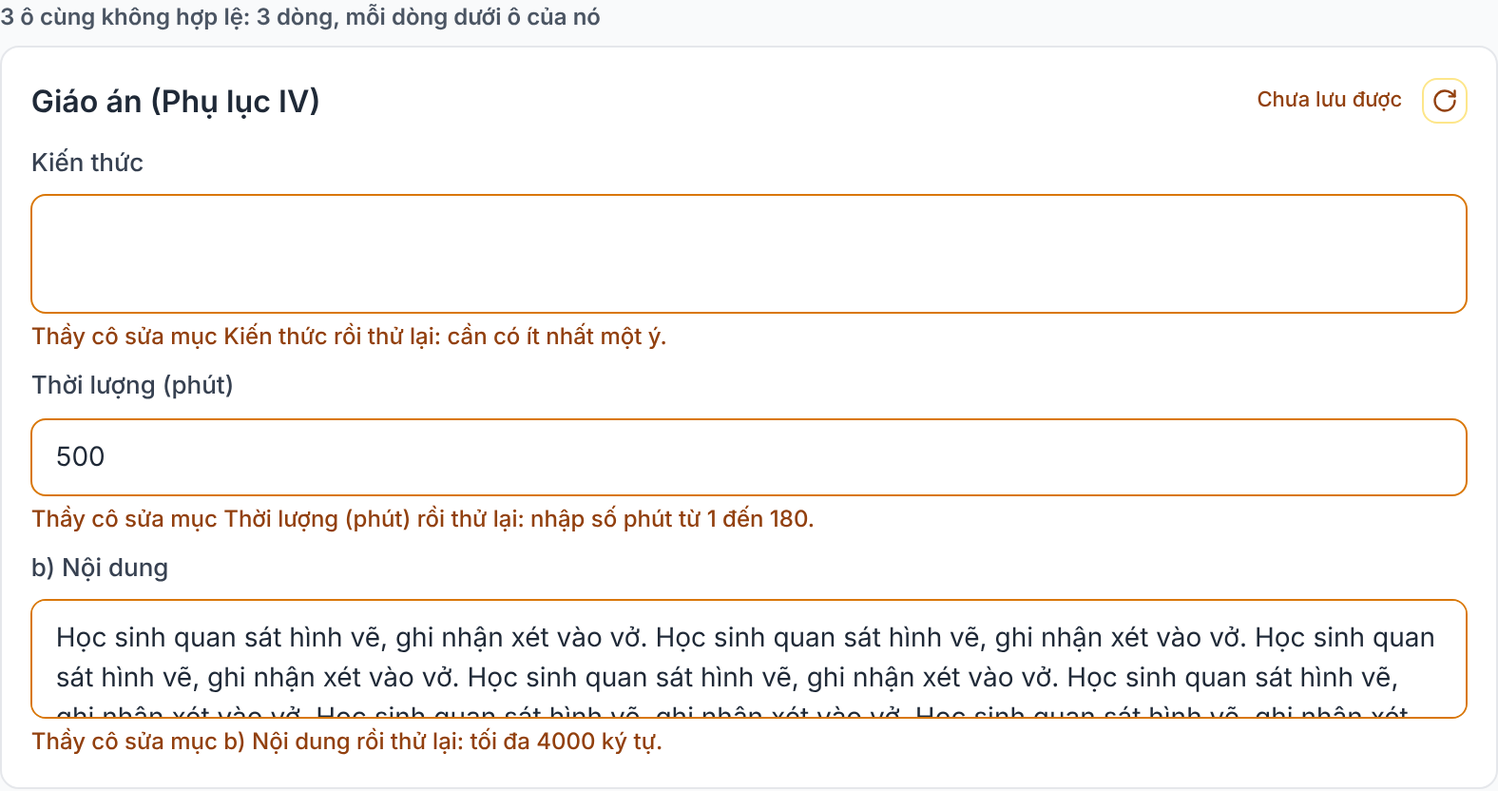
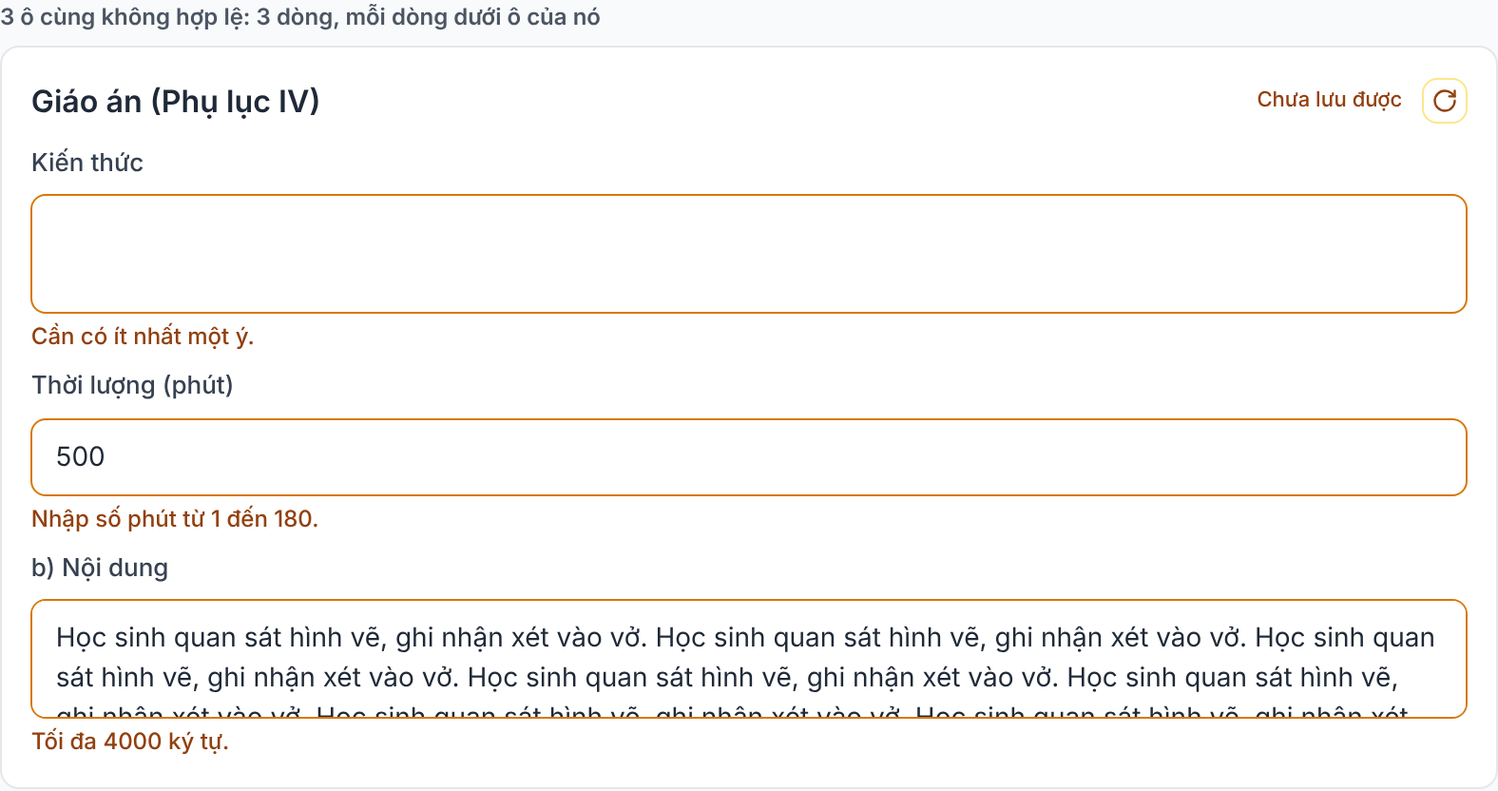
retry/new02: shorten copy (no opener, no field name), 2 short hints

Changed region(s): [[0.0311, 0.625, 0.5286, 0.6875], [0.0311, 0.9062, 0.4353, 0.9688], [0.0, 0.4062, 0.4353, 0.4375]]

diff --git a/retry/new02-qa-fixes/ac-test.js b/retry/new02-qa-fixes/ac-test.js
@@ -7,7 +7,8 @@ const BANNED = /lỗi|\bsai\b|máy chủ|\b400\b|\b422\b|\b409\b|validation|unde
 const b=await chromium.launch({executablePath:'/usr/bin/google-chrome',args:['--headless=new']});
 const res=[]; const ok=(n,c,d)=>res.push((c?'PASS ':'FAIL ')+n+(d?' · '+d:''));
 const RULES={'r-kn-empty':'Kiến thức','r-kn-many':'Kiến thức','r-aids-many':'Học liệu','r-content-empty':'b) Nội dung','r-content-long':'b) Nội dung','r-minutes':'Thời lượng (phút)','r-assign-empty':'Giao nhiệm vụ','r-subname-empty':'Tên hoạt động con','r-subname-long':'Tên hoạt động con','r-school-long':'Trường'};
-const EXPECT={'r-kn-empty':/cần có ít nhất một ý\.$/,'r-kn-many':/tối đa 12 ý\.$/,'r-aids-many':/tối đa 20 dòng\.$/,'r-content-empty':/cần có nội dung\.$/,'r-content-long':/tối đa 4000 ký tự\.$/,'r-minutes':/từ 1 đến 180\.$/,'r-assign-empty':/cần có nội dung\.$/,'r-subname-empty':/cần có tên\.$/,'r-subname-long':/tối đa 200 ký tự\.$/,'r-school-long':/tối đa 200 ký tự\.$/};
+const EXPECT={'r-kn-empty':'Cần có ít nhất một ý.','r-kn-many':'Tối đa 12 ý (ngăn bằng ; hoặc xuống dòng).','r-aids-many':'Tối đa 20 dòng.','r-content-empty':'Cần có nội dung.','r-content-long':'Tối đa 4000 ký tự.','r-minutes':'Nhập số phút từ 1 đến 180.','r-assign-empty':'Cần có nội dung.','r-subname-empty':'Cần có tên.','r-subname-long':'Tối đa 200 ký tự.','r-school-long':'Tối đa 200 ký tự.'};
+const HINT_NET='Chưa lưu được nên chưa chạy. Bấm biểu tượng thử lại ở đầu giáo án.', HINT_DATA='Chưa lưu được nên chưa chạy. Sửa các ô được đánh dấu.';
 for (const w of [1280,720,390]){
  const T=`[${w}] `;
  const ctx=await b.newContext({viewport:{width:w,height:800},hasTouch:w<720});
@@ -60,33 +61,35 @@ for (const w of [1280,720,390]){
 
  // ================= M2 static per rule =================
  const geoOf=async id=>pg.evaluate(id=>{const c=document.getElementById(id).querySelector('.card'),cr=c.getBoundingClientRect(),h=c.querySelector('.hd').getBoundingClientRect(),t=c.querySelector('.card-title').getBoundingClientRect(),l=c.querySelector('.save-label').getBoundingClientRect(),a=c.querySelector('.save-retry').getBoundingClientRect();return [h.height,h.top-cr.top,t.left-cr.left,l.left-cr.left,cr.right-l.right,a.width,a.height].map(v=>+v.toFixed(2)).join(',')},id);
- const g0=await geoOf('r-kn-empty'); let allSame=true, allIn=true, allLines=true, allAria=true, allCopy=true, allBanned=true, allLabel=true, allExpect=true; const info=[];
+ const g0=await geoOf('r-kn-empty'); let one=0, allSame=true, allIn=true, allLines=true, allAria=true, allCopy=true, allBanned=true, allLabel=true, allExpect=true; const info=[];
  for(const id of Object.keys(RULES)){
   await pg.evaluate(id=>document.getElementById(id).scrollIntoView({block:'center'}),id);
-  const r=await pg.evaluate(id=>{const c=document.getElementById(id).querySelector('.card');const f=c.querySelector('.fld'),p=f.querySelector('.field-fail'),i=f.querySelector('.inp'),lb=f.querySelector('label'),pr=p.getBoundingClientRect();const lh=parseFloat(getComputedStyle(p).lineHeight);return {txt:p.textContent,left:pr.left,right:pr.right,top:pr.top,bottom:pr.bottom,iw:innerWidth,ih:innerHeight,lines:Math.round(pr.height/lh),inv:i.getAttribute('aria-invalid'),desc:i.getAttribute('aria-describedby'),pid:p.id,live:p.getAttribute('aria-live'),label:c.querySelector('.save-label').textContent,icon:!!c.querySelector('.save-retry'),under:pr.top>=i.getBoundingClientRect().bottom-0.5&&pr.top-i.getBoundingClientRect().bottom<=6,bc:getComputedStyle(i).borderTopColor,fldLabel:lb.textContent,hasOtherLines:c.querySelectorAll('.field-fail:not(:empty)').length,wrapped:pr.width}},id);
+  const r=await pg.evaluate(id=>{const c=document.getElementById(id).querySelector('.card');const f=c.querySelector('.fld'),p=f.querySelector('.field-fail'),i=f.querySelector('.inp'),lb=f.querySelector('label'),pr=p.getBoundingClientRect();const lh=parseFloat(getComputedStyle(p).lineHeight);return {txt:p.textContent,left:pr.left,right:pr.right,top:pr.top,bottom:pr.bottom,iw:innerWidth,ih:innerHeight,lines:Math.round(pr.height/lh),inv:i.getAttribute('aria-invalid'),desc:i.getAttribute('aria-describedby'),pid:p.id,live:p.getAttribute('aria-live'),label:c.querySelector('.save-label').textContent,icon:!!c.querySelector('.save-retry'),under:pr.top>=i.getBoundingClientRect().bottom-0.5&&pr.top-i.getBoundingClientRect().bottom<=6,bc:getComputedStyle(i).borderTopColor,fldLabel:lb.textContent,hasOtherLines:c.querySelectorAll('.field-fail:not(:empty)').length,hasLabel:!!document.querySelector('label[for="'+i.id+'"]')&&lb.textContent.length>0,wrapped:pr.width}},id);
   const nm=RULES[id].replace(/ \(mỗi dòng một mục\)/,'');
   allSame = allSame && (await geoOf(id))===g0;
   allIn = allIn && r.left>=0 && r.right<=r.iw && r.top>=0 && r.bottom<=r.ih;
   allLines = allLines && r.lines>=1 && r.lines<=2;
   allAria = allAria && r.inv==='true' && r.desc===r.pid && r.live==='polite' && r.under && r.bc==='rgb(217, 119, 6)';
-  allCopy = allCopy && r.txt.startsWith('Thầy cô sửa mục '+nm+' rồi thử lại: ');
-  allExpect = allExpect && EXPECT[id].test(r.txt);
+  allCopy = allCopy && !/Thầy cô|sửa mục|rồi thử lại|giúp nhé/.test(r.txt) && r.txt.indexOf(nm)<0 && /^[A-ZÀ-Ỹ]/.test(r.txt) && r.txt.length<=60 && r.hasLabel;
+  allExpect = allExpect && r.txt===EXPECT[id]; if(r.txt!==EXPECT[id]) info.push('MISMATCH '+id+': '+r.txt); if(r.lines===1) one++;
   allBanned = allBanned && !BANNED.test(r.txt);
   allLabel = allLabel && r.label==='Chưa lưu được' && r.icon;
   info.push(`${id}:${r.lines}l`);
  }
  ok(T+'M2 each of 10 rules: error line fully inside the viewport', allIn);
  ok(T+'M2 each rule: line is 1-2 lines', allLines, info.join(' '));
- ok(T+'M2 each rule: copy = "Thầy cô sửa mục <tên mục> rồi thử lại: <lý do>"', allCopy);
- ok(T+'M2 each rule: reason text has the real limit (ít nhất một / 12 / 20 / 4000 / 1 đến 180 / 200)', allExpect);
+ ok(T+'M2 each rule: SHORT copy (Huy 2026-10-01): capitalised, no opener, no field name, <=60 chars; the field keeps its own <label for> that is read before the line', allCopy);
+ ok(T+'M2 each rule: reason text is EXACTLY the final short sentence (real limits 12 / 20 / 4000 / 1-180 / 200)', allExpect);
+ ok(T+'M2 short lines: 1 line for the large majority (>=9 of 10), none over 2'+(w===390?' (390)':''), one>=9, `one-line=${one}/10`);
  ok(T+'M2 each rule: no banned word (lỗi, sai, máy chủ, 400, validation, undefined...)', allBanned);
  ok(T+'M2 each rule: aria-invalid=true, aria-describedby -> line id, line aria-live=polite, directly under field, amber border #D97706', allAria);
  ok(T+'M2 each rule: status label stays "Chưa lưu được" and the approved icon is present', allLabel);
  ok(T+'M2 status row geometry (height, title x, label x/right edge, icon 24x24) identical across all 10 rules', allSame, g0);
  const ic=await pg.evaluate(()=>{const b=document.querySelector('#icon-1 .save-retry'),cs=getComputedStyle(b);return {w:b.offsetWidth,h:b.offsetHeight,color:cs.color,border:cs.borderTopColor,radius:cs.borderTopLeftRadius,aria:b.getAttribute('aria-label'),svg:b.querySelector('svg').getBoundingClientRect().width,tip:document.querySelector('#icon-1 .save-tip').textContent}});
  ok(T+'approved icon untouched: 24x24, #92400E, border #FDE68A, radius 8, 14px glyph, aria-label & tooltip "Thử lại"', ic.w===24&&ic.h===24&&ic.color==='rgb(146, 64, 14)'&&ic.border==='rgb(253, 230, 138)'&&ic.radius==='8px'&&ic.svg===14&&ic.aria==='Thử lại'&&ic.tip==='Thử lại', JSON.stringify(ic));
- ok(T+'approved blocked-action hint (static) is the exact approved text', await pg.evaluate(()=>document.querySelector('#hint-approved .act-fail').textContent==='Chưa lưu được nên thao tác này chưa chạy. Thầy cô bấm biểu tượng thử lại ở đầu giáo án giúp nhé.'));
- ok(T+'CR-2 hint variant has no banned word and starts with the approved first sentence', await pg.evaluate(()=>{const t=document.querySelector('#hint-data').textContent;return t.startsWith('Chưa lưu được nên thao tác này chưa chạy. ')&&!/lỗi|\bsai\b|máy chủ/i.test(t)}));
+ ok(T+'AC-A static hint, network/unknown field: exact short sentence', await pg.evaluate((h)=>document.querySelector('#hint-net-p').textContent===h,HINT_NET));
+ ok(T+'AC-G static hint, data error with marked fields: exact short sentence', await pg.evaluate((h)=>document.querySelector('#hint-data-p').textContent===h,HINT_DATA));
+ ok(T+'both hints: <=2 lines, inside viewport, no banned word', await pg.evaluate(()=>['#hint-net-p','#hint-data-p'].every(s=>{const e=document.querySelector(s),r=e.getBoundingClientRect();return Math.round(r.height/parseFloat(getComputedStyle(e).lineHeight))<=2&&r.left>=0&&r.right<=innerWidth&&!/lỗi|\bsai\b|máy chủ|\b400\b|validation|undefined/i.test(e.textContent)})));
  // multi
  const mu=await pg.evaluate(()=>{const c=document.querySelector('#multi .card');const ls=[...c.querySelectorAll('.field-fail:not(:empty)')];return {n:ls.length,inv:c.querySelectorAll('[aria-invalid=true]').length,ids:new Set(ls.map(x=>x.id)).size,vis:ls.every(l=>{const r=l.getBoundingClientRect();return r.left>=0&&r.right<=innerWidth})}});
  ok(T+'M2 multi: 3 invalid fields -> 3 lines + 3 aria-invalid, each in viewport horizontally', mu.n===3&&mu.inv===3&&mu.ids===3&&mu.vis, JSON.stringify(mu));
@@ -127,7 +130,8 @@ for (const w of [1280,720,390]){
  ok(T+'live: Kiến thức emptied -> label "Chưa lưu được" + icon, 1 line, ZERO new PUT', (await lab())==='Chưa lưu được'&&(await icon())&&(await nlines())===1&&(await puts())===1);
  ok(T+'live: focus NOT stolen (still in Kiến thức) when the reason line appears', await lp.evaluate(()=>document.activeElement.closest('.fld')?.dataset.key==='knowledge'));
  const lineTxt=await lp.evaluate(()=>document.querySelector('#live .fld[data-key=knowledge] .field-fail').textContent);
- ok(T+'live: line text = approved pattern, Kiến thức', lineTxt==='Thầy cô sửa mục Kiến thức rồi thử lại: cần có ít nhất một ý.', lineTxt);
+ ok(T+'live: line text = "Cần có ít nhất một ý."', lineTxt==='Cần có ít nhất một ý.', lineTxt);
+ ok(T+'live: field has its own label read before the line (label[for] + aria-describedby, no aria-label override needed)', await lp.evaluate(()=>{const i=document.querySelector('#live .fld[data-key=knowledge] .inp');return document.querySelector('label[for="'+i.id+'"]').textContent==='Kiến thức'&&i.getAttribute('aria-describedby')&&!i.hasAttribute('aria-label')}));
  const va=await lp.evaluate(()=>{const i=document.querySelector('#live .fld[data-key=knowledge] .inp'),p=i.closest('.fld').querySelector('.field-fail');return i.getAttribute('aria-invalid')==='true'&&i.getAttribute('aria-describedby')===p.id&&p.getAttribute('aria-live')==='polite'});
  ok(T+'live: aria-invalid + aria-describedby + polite on the live line', va);
  ok(T+'live: status row geometry identical to "Đã lưu" state (no shift of the row)', (await hdG())===hd0, hd0);
@@ -142,10 +146,11 @@ for (const w of [1280,720,390]){
  ok(T+'live: focus stays in the field being typed (no focus steal)', await lp.evaluate(()=>document.activeElement.closest('.fld')?.dataset.key==='content'));
  // click Xuất while data error: approved hint text, unchanged
  await lp.click(live('[data-act=export]')); 
- ok(T+'live: Xuất Word during data error -> the APPROVED blocked-action hint (CR-2 off)', await lp.evaluate(()=>document.getElementById('live-hint').textContent==='Chưa lưu được nên thao tác này chưa chạy. Thầy cô bấm biểu tượng thử lại ở đầu giáo án giúp nhé.'));
- await lp.evaluate(()=>{document.getElementById('cr2').checked=true}); await lp.click(live('[data-act=revise]'));
- ok(T+'live: CR-2 on -> variant text (no banned word)', await lp.evaluate(()=>{const t=document.getElementById('live-hint').textContent;return t.includes('sửa mục được nhắc')&&!/lỗi|\bsai\b|máy chủ/i.test(t)}));
- await lp.evaluate(()=>{document.getElementById('cr2').checked=false});
+ await lp.click(live('[data-act=export]'));
+ ok(T+'live: AC-G Xuất Word during DATA error -> "Chưa lưu được nên chưa chạy. Sửa các ô được đánh dấu."', await lp.evaluate(h=>document.getElementById('live-hint').textContent===h,HINT_DATA));
+ ok(T+'live: AC-G hint <=2 lines and inside the viewport', await lp.evaluate(()=>{const e=document.getElementById('live-hint'),r=e.getBoundingClientRect();return Math.round(r.height/parseFloat(getComputedStyle(e).lineHeight))<=2&&r.left>=0&&r.right<=innerWidth}));
+ await lp.click(live('[data-act=revise]'));
+ ok(T+'live: AC-G Soạn lại during DATA error -> same data sentence', await lp.evaluate(h=>document.getElementById('live-hint').textContent===h,HINT_DATA));
  // click retry icon with data error: no PUT, no "Đang lưu", focus to the first invalid field
  await lp.click(live('.save-retry')); await lp.waitForTimeout(900);
  ok(T+'live: icon click on data error -> no PUT, label stays "Chưa lưu được" (never flashes "Đang lưu"), icon still there', (await puts())===1&&(await lab())==='Chưa lưu được'&&(await icon()));
@@ -172,6 +177,18 @@ for (const w of [1280,720,390]){
  await lp.waitForTimeout(900); ok(T+'live: NETWORK retry fails again -> icon back', (await lab())==='Chưa lưu được'&&(await icon()));
  await lp.evaluate(()=>{document.getElementById('fail').checked=false}); await lp.click(live('.save-retry')); await lp.waitForTimeout(1000);
  ok(T+'live: NETWORK retry succeeds -> "Đã lưu", icon gone, focus back to the last edited field', (await lab())==='Đã lưu'&&!(await icon())&&await lp.evaluate(()=>document.activeElement.closest('.fld')?.dataset.key==='school'));
+ // AC-A: hint on NETWORK error (network still down from earlier step? set explicitly)
+ await lp.evaluate(()=>{document.getElementById('fail').checked=true;document.getElementById('rej').checked=false});
+ await lp.click(fld('school')); await lp.keyboard.type('n'); await lp.waitForTimeout(1500);
+ await lp.click(live('[data-act=export]'));
+ ok(T+'live: AC-A Xuất Word during NETWORK error -> "Chưa lưu được nên chưa chạy. Bấm biểu tượng thử lại ở đầu giáo án."', (await lab())==='Chưa lưu được'&&await lp.evaluate(h=>document.getElementById('live-hint').textContent===h,HINT_NET));
+ await lp.evaluate(()=>{document.getElementById('fail').checked=false}); await lp.click(live('.save-retry')); await lp.waitForTimeout(1000);
+ ok(T+'live: hint disappears after a successful save', await lp.evaluate(()=>document.getElementById('live-hint').textContent===''));
+ // minutes are NOT silently changed to 1 (L1)
+ await lp.fill(fld('minutes'),''); await lp.waitForTimeout(1300);
+ ok(T+'live: L1 minutes emptied stays EMPTY (not snapped to 1) and shows "Nhập số phút từ 1 đến 180."', (await lp.inputValue(fld('minutes')))===''&&await lp.evaluate(()=>document.querySelector('#live .fld[data-key=minutes] .field-fail').textContent==='Nhập số phút từ 1 đến 180.'));
+ await lp.fill(fld('minutes'),'0'); ok(T+'live: minutes 0 stays 0 with the line', (await lp.inputValue(fld('minutes')))==='0'&&(await nlines())===1);
+ await lp.fill(fld('minutes'),'10'); await lp.waitForTimeout(1300);
  // data error, field unknown: label + icon only, approved retry flow, no invented line
  await lp.evaluate(()=>{document.getElementById('fail').checked=false;document.getElementById('rej').checked=true});
  const pu=await puts(); await lp.click(fld('school')); await lp.keyboard.type('y'); await lp.waitForTimeout(1500);
@@ -184,7 +201,7 @@ for (const w of [1280,720,390]){
  // data error then network error at once: data wins for the line, no PUT
  await lp.evaluate(()=>{document.getElementById('fail').checked=true}); await lp.click('#h-sub'); await lp.waitForTimeout(1300);
  const ps=await puts();
- ok(T+'live: sub-activity name emptied -> its own line, 0 PUT even though network is also down', (await nlines())===1&&await lp.evaluate(()=>document.querySelector('#live .fld[data-key=subname] .field-fail').textContent==='Thầy cô sửa mục Tên hoạt động con rồi thử lại: cần có tên.'));
+ ok(T+'live: sub-activity name emptied -> its own line, 0 PUT even though network is also down', (await nlines())===1&&await lp.evaluate(()=>document.querySelector('#live .fld[data-key=subname] .field-fail').textContent==='Cần có tên.'));
  await lp.click(fld('subname')); await lp.keyboard.type('Tên con'); await lp.waitForTimeout(40);
  ok(T+'live: typing in the sub-activity name clears its line instantly', (await nlines())===0);
  await lp.waitForTimeout(1500);

diff --git a/retry/new02-qa-fixes/index.html b/retry/new02-qa-fixes/index.html
@@ -135,17 +135,19 @@ var ICON='<svg viewBox="0 0 24 24" fill="none" stroke="currentColor" stroke-widt
 var LOOK='<svg width="13" height="13" viewBox="0 0 24 24" fill="none" stroke="currentColor" stroke-width="2" stroke-linecap="round" stroke-linejoin="round" aria-hidden="true"><circle cx="11" cy="11" r="7"/><path d="m20 20-3.5-3.5"/><path d="M11 8v3.2"/><path d="M11 14h.01"/></svg>';
 var CHK='<svg width="12" height="12" viewBox="0 0 24 24" fill="none" stroke="currentColor" stroke-width="2.5" stroke-linecap="round" stroke-linejoin="round" aria-hidden="true"><path d="M5 12.5l4.5 4.5L19 7.5"/></svg>';
 var TEXT={saved:'Đã lưu',saving:'Đang lưu',error:'Chưa lưu được'};
-var BLOCKED='Chưa lưu được nên thao tác này chưa chạy. Thầy cô bấm biểu tượng thử lại ở đầu giáo án giúp nhé.';          /* APPROVED, = SAVE_ACTION_BLOCKED on main */
-var BLOCKED_DATA='Chưa lưu được nên thao tác này chưa chạy. Thầy cô sửa mục được nhắc rồi bấm biểu tượng thử lại giúp nhé.'; /* CHANGE REQUEST CR-2 (optional) */
+/* Huy 2026-10-01: rút gọn. Thay SAVE_ACTION_BLOCKED (save-status.ts) bằng 2 câu theo loại lỗi */
+var BLOCKED='Chưa lưu được nên chưa chạy. Bấm biểu tượng thử lại ở đầu giáo án.';   /* lỗi mạng / 5xx / 409 / không biết ô nào */
+var BLOCKED_DATA='Chưa lưu được nên chưa chạy. Sửa các ô được đánh dấu.';            /* lỗi dữ liệu có ô được đánh dấu */
 
 /* ============ M2 rules. Limits = packages/shared/src/save-plan.ts (TEXT_MAX 4000, SHORT_TEXT_MAX 200, LIST_MAX 12, AIDS_MAX 20, minutes 1..180) ============ */
 function parseList(raw,sep){ return raw.split(sep==='nl'?/\n/:/[;\n]/).map(function(x){return x.trim()}).filter(Boolean); }
 /* each field def: k key, label (as shown), type, check(value)->reason|'' (reason = text after the colon) */
-function chk_list(sep,max,unit){ return function(v){ var a=parseList(v,sep); if(!a.length) return 'cần có ít nhất một '+unit+'.'; if(a.some(function(x){return x.length>4000})) return 'mỗi '+unit+' tối đa 4000 ký tự.'; if(a.length>max) return 'tối đa '+max+' '+unit+'.'; return ''; }; }
-function chk_text(max,emptyMsg){ return function(v){ var t=v.trim(); if(!t) return emptyMsg||'cần có nội dung.'; if(t.length>max) return 'tối đa '+max+' ký tự.'; return ''; }; }
-function chk_opt(max){ return function(v){ return v.trim().length>max?'tối đa '+max+' ký tự.':''; }; }
-function chk_min(v){ var n=Number(v); return (v===''||!isFinite(n)||Math.floor(n)!==n||n<1||n>180)?'nhập số phút từ 1 đến 180.':''; }
-function msg(label,reason){ return 'Thầy cô sửa mục '+label+' rồi thử lại: '+reason; }
+function chk_list(sep,max,unit){ return function(v){ var a=parseList(v,sep); if(!a.length) return 'Cần có ít nhất một '+unit+'.'; if(a.some(function(x){return x.length>4000})) return 'Mỗi '+unit+' tối đa 4000 ký tự.'; if(a.length>max) return 'Tối đa '+max+' '+unit+(sep===';'?' (ngăn bằng ; hoặc xuống dòng).':'.'); return ''; }; }
+function chk_text(max,emptyMsg){ return function(v){ var t=v.trim(); if(!t) return emptyMsg||'Cần có nội dung.'; if(t.length>max) return 'Tối đa '+max+' ký tự.'; return ''; }; }
+function chk_opt(max){ return function(v){ return v.trim().length>max?'Tối đa '+max+' ký tự.':''; }; }
+function chk_min(v){ var n=Number(v); return (v===''||!isFinite(n)||Math.floor(n)!==n||n<1||n>180)?'Nhập số phút từ 1 đến 180.':''; }
+/* Huy 2026-10-01: dòng chỉ nêu trọng tâm, không lời mở, không tên mục (dòng nằm ngay dưới ô, ô có nhãn + aria-describedby) */
+function msg(label,reason){ return reason; }
 var DEFS={
  knowledge:{label:'Kiến thức',type:'textarea',check:chk_list(';',12,'ý')},
  aids:{label:'Học liệu (mỗi dòng một mục)',short:'Học liệu',type:'textarea',check:chk_list('nl',20,'dòng')},
@@ -153,7 +155,7 @@ var DEFS={
  minutes:{label:'Thời lượng (phút)',short:'Thời lượng (phút)',type:'number',check:chk_min},
  content:{label:'b) Nội dung',type:'textarea',check:chk_text(4000)},
  assign:{label:'Giao nhiệm vụ',type:'textarea',check:chk_text(4000)},
- subname:{label:'Tên hoạt động con',type:'input',check:chk_text(200,'cần có tên.')}
+ subname:{label:'Tên hoạt động con',type:'input',check:chk_text(200,'Cần có tên.')}
 };
 function why(def,v){ var r=def.check(v); return r?msg(def.short||def.label,r):''; }
 var LONG=(function(){var s='';while(s.length<4001)s+='Học sinh quan sát hình vẽ, ghi nhận xét vào vở. ';return s.slice(0,4001)})();
@@ -281,10 +283,10 @@ board.appendChild(section('Biểu tượng "Thử lại" khi lỗi dữ liệu',
   board.appendChild(block('icon-1','a · Có lỗi dữ liệu: nhãn + biểu tượng y như lỗi mạng, kèm dòng dưới ô (rê chuột/focus: tooltip "Thử lại")',c,{icon:'1'}));
   var c2=mini('error'); var w2=fieldNode('knowledge',''); c2.appendChild(w2); setBad(w2,why(DEFS.knowledge,''),true);
   board.appendChild(block('icon-2','b · Sau khi bấm biểu tượng: không "Đang lưu" giả, focus nằm ở ô cần sửa (con trỏ nhấp nháy), dòng lý do được đọc lại',c2,{icon:'2'}));
-  var c3=mini('error'); c3.insertAdjacentHTML('beforeend','<div class="acts"><button type="button" class="btn btn-secondary">Soạn lại giáo án</button><button type="button" class="btn btn-outline">Tạo phiếu bài tập</button><button type="button" class="btn btn-default">Xuất Word</button><p class="act-fail" id="hint-appr">'+BLOCKED+'</p></div>');
-  board.appendChild(block('hint-approved','c · Dòng bên dưới Xuất/Soạn lại/Tạo phiếu: GIỮ NGUYÊN câu đã duyệt (vẫn đúng khi lỗi dữ liệu)',c3,{hint:'approved'}));
-  var c4=mini('error'); c4.insertAdjacentHTML('beforeend','<div class="acts"><button type="button" class="btn btn-secondary">Soạn lại giáo án</button><button type="button" class="btn btn-outline">Tạo phiếu bài tập</button><button type="button" class="btn btn-default">Xuất Word</button><p class="act-fail" id="hint-data">'+BLOCKED_DATA+'</p></div>');
-  board.appendChild(block('hint-data-var','d · CR-2 (tùy chọn, CẦN DUYỆT): biến thể khi lỗi là dữ liệu. Chỉ thêm "sửa mục được nhắc"',c4,{hint:'data'}));
+  var c3=mini('error'); c3.insertAdjacentHTML('beforeend','<div class="acts"><button type="button" class="btn btn-secondary">Soạn lại giáo án</button><button type="button" class="btn btn-outline">Tạo phiếu bài tập</button><button type="button" class="btn btn-default">Xuất Word</button><p class="act-fail" id="hint-net-p">'+BLOCKED+'</p></div>');
+  board.appendChild(block('hint-net','c · Dòng dưới Xuất/Soạn lại/Tạo phiếu, LỖI MẠNG (và lỗi dữ liệu không biết ô nào): câu ngắn mới',c3,{hint:'net'}));
+  var c4=mini('error'); c4.insertAdjacentHTML('beforeend','<div class="acts"><button type="button" class="btn btn-secondary">Soạn lại giáo án</button><button type="button" class="btn btn-outline">Tạo phiếu bài tập</button><button type="button" class="btn btn-default">Xuất Word</button><p class="act-fail" id="hint-data-p">'+BLOCKED_DATA+'</p></div>');
+  board.appendChild(block('hint-data','d · Cùng dòng, LỖI DỮ LIỆU có ô được đánh dấu: câu ngắn mới',c4,{hint:'data'}));
 })();
 
 /* ============ network vs data ============ */
@@ -295,9 +297,9 @@ board.appendChild(section('Lỗi mạng và lỗi dữ liệu: khác nhau ở đ
   '<tr><th>Nhãn đầu giáo án</th><td>"Chưa lưu được"</td><td>"Chưa lưu được" (y hệt)</td></tr>'+
   '<tr><th>Biểu tượng</th><td>Có, kiểu đã duyệt</td><td>Có, y hệt (không đổi màu, không vô hiệu)</td></tr>'+
   '<tr><th>Bấm biểu tượng</th><td>"Đang lưu" ít nhất 600 ms, gửi lại; xong thì focus về ô đang sửa, lỗi lại thì focus về biểu tượng</td><td>Không gửi gì, không "Đang lưu"; focus chuyển đến ô đầu tiên có dòng lý do (CR-3)</td></tr>'+
-  '<tr><th>Dòng dưới ô</th><td>Không có</td><td>Có, ngay dưới từng ô cần sửa: "Thầy cô sửa mục … rồi thử lại: …"</td></tr>'+
+  '<tr><th>Dòng dưới ô</th><td>Không có</td><td>Có, ngay dưới từng ô cần sửa, chỉ nêu trọng tâm: "Cần có ít nhất một ý."</td></tr>'+
   '<tr><th>Viền ô</th><td>Không đổi</td><td>Viền cam #D97706 (mới); khi đang gõ vào ô thì viền xanh như mọi ô</td></tr>'+
-  '<tr><th>Dòng dưới Xuất / Soạn lại / Tạo phiếu</th><td>Câu đã duyệt, giữ nguyên</td><td>Giữ câu đã duyệt (vẫn đúng). Tùy chọn CR-2: "…sửa mục được nhắc rồi bấm biểu tượng thử lại giúp nhé."</td></tr>'+
+  '<tr><th>Dòng dưới Xuất / Soạn lại / Tạo phiếu</th><td>"Chưa lưu được nên chưa chạy. Bấm biểu tượng thử lại ở đầu giáo án."</td><td>"Chưa lưu được nên chưa chạy. Sửa các ô được đánh dấu."</td></tr>'+
   '<tr><th>Tự thử lại</th><td>Có: mỗi lần sửa tiếp (sau 1 giây) hoặc bấm biểu tượng</td><td>Có: ngay khi ô cuối cùng hợp lệ, giáo án tự lưu sau 1 giây, không cần bấm</td></tr>'+
   '<tr><th>Khi nào hết</th><td>Lưu thành công thì "Đã lưu", biểu tượng mất</td><td>Dòng của ô nào mất ngay khi ô đó hợp lệ; nhãn về "Đã lưu" khi tự lưu xong</td></tr>'+
   '<tr><th>Lỗi dữ liệu nhưng không biết ô nào</th><td>(không áp dụng)</td><td>Chỉ nhãn "Chưa lưu được" + biểu tượng; không có dòng, không viền cam; bấm biểu tượng chạy luồng đã duyệt (Đang lưu, gửi lại)</td></tr>'+
@@ -318,7 +320,7 @@ if(/[?&]live=1/.test(location.search)){
   board.appendChild(section('Bấm thử (?live=1)','Mô phỏng: không có máy chủ thật. Tự lưu sau 800 ms (thật là 1 giây). PUT chỉ được đếm khi nội dung hợp lệ.','sec-live'));
   var d=document.createElement('div'); d.className='demo'; d.id='livebox';
   d.innerHTML='<p class="cap" data-mock><b>Demo bấm thử</b> (không thuộc giao diện)</p><div id="live"></div>'+
-   '<p data-mock><label><input type="checkbox" id="fail"> Mạng đang lỗi</label><label><input type="checkbox" id="rej"> Máy từ chối nội dung nhưng không chỉ ô nào</label><label><input type="checkbox" id="cr2"> Bật CR-2 (câu dưới nút khi lỗi dữ liệu)</label> <span id="cnt">PUT: 0</span></p>'+
+   '<p data-mock><label><input type="checkbox" id="fail"> Mạng đang lỗi</label><label><input type="checkbox" id="rej"> Máy từ chối nội dung nhưng không chỉ ô nào</label><span id="cnt">PUT: 0</span></p>'+
    '<p data-mock id="helpers"><button type="button" class="btn btn-outline" id="h-kn">Xóa hết Kiến thức</button> <button type="button" class="btn btn-outline" id="h-long">Dán 4001 ký tự vào b) Nội dung</button> <button type="button" class="btn btn-outline" id="h-min">Thời lượng = 500</button> <button type="button" class="btn btn-outline" id="h-sub">Xóa tên hoạt động con</button> <button type="button" class="btn btn-outline" id="h-fix">Sửa tất cả</button></p><pre id="out" data-mock style="font-size:12px;margin:0"></pre>';
   board.appendChild(d);
   var live=document.getElementById('live'), out=document.getElementById('out');
@@ -351,7 +353,7 @@ if(/[?&]live=1/.test(location.search)){
     if(onCtl){ if(st==='saving') lt.focus(); else if(st==='saved'&&F.lastEdited) F.lastEdited.control.focus(); }
     var btn=status(card,st); if(btn){ btn.onclick=onRetry; slot.onmouseenter=slot.onmouseleave=function(){esc2=false;tipShow()}; btn.onfocus=function(){esc2=false;tipShow()}; btn.onblur=tipShow; if(onCtl) btn.focus(); }
     tipShow();
-    hint.textContent=(blockedBy&&st==='error')?((kind==='data'&&document.getElementById('cr2').checked)?BLOCKED_DATA:BLOCKED):'';
+    hint.textContent=(blockedBy&&st==='error')?(kind==='data'?BLOCKED_DATA:BLOCKED):'';
     document.getElementById('cnt').textContent='PUT: '+puts;
   }
   document.addEventListener('keydown',function(e){ if(e.key==='Escape'&&slot.classList.contains('tip-on')){ esc2=true; tipShow(); } });

diff --git a/retry/new02-qa-fixes/shots.js b/retry/new02-qa-fixes/shots.js
@@ -11,7 +11,7 @@ for(const [w,dpr,name] of [[1280,1,'desktop-1280'],[720,1,'tablet-720'],[390,2,'
 // 2x close-ups
 for(const w of [1280,390]){
  const c=await b.newContext({viewport:{width:w,height:900},deviceScaleFactor:2}); const p=await c.newPage(); await p.goto(URL);
- for(const [id,n] of [['h1-before','heading-before'],['h1-after','heading-after'],['h1-forming','heading-forming-sub-editable'],['r-kn-empty','error-line-kien-thuc'],['r-content-long','error-line-4000'],['r-minutes','error-line-minutes'],['multi','multi-field'],['net-pair','network-vs-data'],['net-c','data-error-field-unknown'],['icon-1','icon-on-data-error'],['hint-data-var','hint-cr2']]){
+ for(const [id,n] of [['h1-before','heading-before'],['h1-after','heading-after'],['h1-forming','heading-forming-sub-editable'],['r-kn-empty','error-line-kien-thuc'],['r-content-long','error-line-4000'],['r-minutes','error-line-minutes'],['multi','multi-field'],['net-pair','network-vs-data'],['net-c','data-error-field-unknown'],['icon-1','icon-on-data-error'],['hint-net','hint-network'],['hint-data','hint-data-error']]){
    const el=await p.$('#'+id); await el.scrollIntoViewIfNeeded(); await el.screenshot({path:`${OUT}closeup-${w}-${n}.png`}); }
  await c.close();
 }

diff --git a/retry/new02-qa-fixes/spec-new02-qa-fixes.md b/retry/new02-qa-fixes/spec-new02-qa-fixes.md
@@ -2,7 +2,9 @@
 
 Trạng thái: **chờ Huy duyệt, Dev FE chưa làm.** Một PR, chỉ FE. Nguồn: `ga-postgen-check/qa-run-new02/results.md` (H1, M2, L1), code `origin/main` b735fd9.
 Mockup: `/retry/new02-qa-fixes/` · bấm thử: `?live=1` · kiểm tra tự động: `ac-test.js` (3 độ rộng; xem ac-test-output.txt).
-Giữ nguyên (đã duyệt): biểu tượng thử lại, tooltip "Thử lại", nhãn "Đã lưu / Đang lưu / Chưa lưu được", ô 24px luôn chiếm chỗ, dòng chặn dưới Xuất/Soạn lại/Tạo phiếu.
+Giữ nguyên (đã duyệt): biểu tượng thử lại, tooltip "Thử lại", nhãn "Đã lưu / Đang lưu / Chưa lưu được", ô 24px luôn chiếm chỗ.
+
+> **Huy 2026-10-01: rút gọn, bỏ lời mở và tên mục.** Thay copy BA đề xuất trước đó ở 3 chỗ (**BA cần xem lại**): (1) dòng lý do dưới ô M2 (bỏ "Thầy cô sửa mục … rồi thử lại:" và tên mục; viết hoa đầu câu); (2) dòng dưới Xuất/Soạn lại/Tạo phiếu khi lỗi mạng (thay `SAVE_ACTION_BLOCKED` đã duyệt/đã merge); (3) dòng đó khi lỗi dữ liệu (câu mới, thay CR-2). Chữ "Thầy cô" không còn trong các dòng này; giọng văn ngắn và không có từ lỗi/sai/máy chủ/400/validation. Hành vi, biểu tượng, viền hổ phách, focus, H1 không đổi.
 
 ## 1. Quy tắc và giới hạn trong code (nguồn của bảng copy)
 | Quy tắc | Giới hạn | File |
@@ -40,32 +42,41 @@ Lưu ý Dev: hiển thị `ACTIVITY_SLOT_NAMES[index]` (tên chuẩn), không hi
 
 ## 3. M2 · Dòng lý do (vị trí và hành vi)
 - **Vị trí:** ngay dưới ô có vấn đề, `<p class="field-fail" id="{ô}-why" aria-live="polite">` (kiểu `.rv-ackfail`: 12px / 500 / `#92400E` / line-height 1.4, rỗng thì ẩn trực quan). Không toast, không banner trên đầu.
-- **Ô có vấn đề (MỚI, cần duyệt):** `aria-invalid="true"`, `aria-describedby="{ô}-why"`, viền `#D97706` (`--amber`, 3,19:1 trên trắng, đủ cho thành phần UI 3:1). Code hiện chưa có kiểu ô không hợp lệ nào. Khi đang gõ/focus trong ô thì vẫn là viền xanh + vòng focus như mọi ô.
+- **Ô có vấn đề (MỚI, cần duyệt):** `aria-invalid="true"`, `aria-describedby="{ô}-why"` (nhãn `<label for>` của ô được đọc trước, rồi tới dòng, nên dòng không cần lặp tên mục), viền `#D97706` (`--amber`, 3,19:1 trên trắng, đủ cho thành phần UI 3:1). Code hiện chưa có kiểu ô không hợp lệ nào. Khi đang gõ/focus trong ô thì vẫn là viền xanh + vòng focus như mọi ô.
 - **Nhiều ô sai cùng lúc: hiện dòng ở TẤT CẢ các ô** (mỗi ô một dòng), không gộp "ô đầu + số lượng". Lý do: thầy cô thấy ngay mọi chỗ cần sửa khi cuộn; mỗi ô là 1 dòng ngắn nên tốn ít chỗ; "ô đầu + số" buộc phải đoán những ô còn lại.
 - **Nhãn đầu giáo án:** vẫn "Chưa lưu được" (đã duyệt), màu `#92400E`. Dòng lý do không nằm ở đầu giáo án (đầu giáo án có thể ngoài màn hình).
 - **Biểu tượng thử lại khi lỗi dữ liệu: KHUYẾN NGHỊ GIỮ NGUYÊN biểu tượng** (cùng kiểu, tooltip, kích thước, không vô hiệu hóa). Lý do: không đổi thứ đã duyệt, không tạo thêm trạng thái; bấm vào luôn có phản hồi. Khi bấm mà còn ô chưa hợp lệ: **không gửi gì, không hiện "Đang lưu" giả**, đưa focus đến ô đầu tiên có dòng lý do (cuộn vào giữa màn hình) và dòng được đọc lại. Khi các ô đã hợp lệ thì chạy đúng luồng đã duyệt. Phương án thay thế đã xét: ẩn hoặc làm mờ biểu tượng, bị loại vì thêm trạng thái mới và làm mất lối dẫn tới ô cần sửa.
 - **Tự lưu lại:** ngay khi ô cuối cùng hợp lệ, tự lưu sau 1 giây như mọi lần sửa (không cần bấm).
 - **Khi nào dòng mất:** (1) ngay khi giá trị ô đó hợp lệ lúc đang gõ, kiểm tra cục bộ từng ô, không cần mạng; (2) lưu thành công thì mọi dòng mất; không mất khi chỉ bấm vào ô hay gõ chữ mà vẫn chưa hợp lệ.
 - **Focus:** không bao giờ tự chuyển focus lúc đang gõ. Chỉ chuyển khi thầy cô chủ động bấm biểu tượng thử lại.
-- **Dòng chặn dưới Xuất/Soạn lại/Tạo phiếu:** giữ nguyên câu đã duyệt ("…Thầy cô bấm biểu tượng thử lại ở đầu giáo án giúp nhé."). Vẫn đúng với lỗi dữ liệu vì biểu tượng vẫn còn và dẫn tới ô cần sửa. Xem CR-2 nếu muốn rõ hơn.
+- **Dòng dưới Xuất/Soạn lại/Tạo phiếu (đã rút gọn, đổi copy):** lỗi mạng / 5xx / 409 / lỗi dữ liệu không biết ô nào: "Chưa lưu được nên chưa chạy. Bấm biểu tượng thử lại ở đầu giáo án." Lỗi dữ liệu có ô được đánh dấu: "Chưa lưu được nên chưa chạy. Sửa các ô được đánh dấu." Vẫn đặt ở cùng chỗ, `aria-live="polite"`, `aria-describedby` từ nút đã bấm như đã duyệt. Mất khi lưu thành công.
 
-### Bảng copy theo quy tắc (mẫu: "Thầy cô sửa mục **{mục}** rồi thử lại: {lý do}")
-| Quy tắc | Câu hiển thị (tên mục = nhãn thật của ô) |
+### Bảng copy theo quy tắc (Huy 2026-10-01: chỉ nêu trọng tâm, không lời mở, không tên mục)
+Dòng đặt liền dưới đúng ô, gắn `aria-describedby`; ô có `<label for>` riêng (trình đọc đọc nhãn ô rồi tới dòng). Với ô trong danh sách lặp (4 bước tổ chức, hoạt động con) dòng vẫn nằm dưới đúng ô đó, không gộp.
+| Quy tắc | Dòng hiển thị |
 |---|---|
-| Kiến thức / Năng lực / Phẩm chất trống | Thầy cô sửa mục Kiến thức rồi thử lại: cần có ít nhất một ý. |
-| Kiến thức / Năng lực / Phẩm chất > 12 ý | Thầy cô sửa mục Kiến thức rồi thử lại: tối đa 12 ý. |
-| Một ý > 4000 ký tự | Thầy cô sửa mục Kiến thức rồi thử lại: mỗi ý tối đa 4000 ký tự. |
-| Học liệu trống | Thầy cô sửa mục Học liệu rồi thử lại: cần có ít nhất một dòng. |
-| Học liệu > 20 dòng | Thầy cô sửa mục Học liệu rồi thử lại: tối đa 20 dòng. |
-| Một dòng học liệu > 4000 | Thầy cô sửa mục Học liệu rồi thử lại: mỗi dòng tối đa 4000 ký tự. |
-| a) Mục tiêu / b) Nội dung / c) Sản phẩm / 4 bước tổ chức: trống hoặc chỉ dấu cách | Thầy cô sửa mục b) Nội dung rồi thử lại: cần có nội dung. (đổi tên mục theo nhãn: a) Mục tiêu, c) Sản phẩm, Giao nhiệm vụ, Thực hiện nhiệm vụ, Báo cáo thảo luận, Kết luận/nhận định) |
-| Các ô chữ trên, > 4000 | Thầy cô sửa mục b) Nội dung rồi thử lại: tối đa 4000 ký tự. |
-| Thời lượng ngoài 1 đến 180 | Thầy cô sửa mục Thời lượng (phút) rồi thử lại: nhập số phút từ 1 đến 180. |
-| Tên hoạt động con trống | Thầy cô sửa mục Tên hoạt động con rồi thử lại: cần có tên. |
-| Tên hoạt động con > 200 | Thầy cô sửa mục Tên hoạt động con rồi thử lại: tối đa 200 ký tự. |
-| Trường / Tổ chuyên môn / Giáo viên > 200 | Thầy cô sửa mục Trường rồi thử lại: tối đa 200 ký tự. |
-| Ghi chú điều chỉnh > 4000 | Thầy cô sửa mục Ghi chú điều chỉnh rồi thử lại: tối đa 4000 ký tự. |
-Ở 390px mọi câu trên vừa 1 đến 2 dòng (đo trong test). Không dùng "lỗi / sai / máy chủ / 400 / validation / undefined" và không lộ mã quy tắc. Với hoạt động con, nên thêm số thứ tự khi có nhiều ô trùng nhãn (ví dụ "Tên hoạt động con 2") vì dòng nằm ngay ô nên chưa bắt buộc.
+| Kiến thức / Năng lực / Phẩm chất trống | Cần có ít nhất một ý. |
+| Kiến thức / Năng lực / Phẩm chất > 12 ý | Tối đa 12 ý (ngăn bằng ; hoặc xuống dòng). |
+| Một ý > 4000 ký tự | Mỗi ý tối đa 4000 ký tự. |
+| Học liệu trống | Cần có ít nhất một dòng. |
+| Học liệu > 20 dòng | Tối đa 20 dòng. |
+| Một dòng học liệu > 4000 | Mỗi dòng tối đa 4000 ký tự. |
+| a) Mục tiêu / b) Nội dung / c) Sản phẩm / 4 bước tổ chức trống hoặc chỉ dấu cách | Cần có nội dung. |
+| Các ô chữ trên > 4000 | Tối đa 4000 ký tự. |
+| Thời lượng ngoài 1 đến 180 (kể cả rỗng, 0) | Nhập số phút từ 1 đến 180. |
+| Tên hoạt động con trống | Cần có tên. |
+| Tên hoạt động con > 200 | Tối đa 200 ký tự. |
+| Trường / Tổ chuyên môn / Giáo viên > 200 | Tối đa 200 ký tự. |
+| Ghi chú điều chỉnh > 4000 | Tối đa 4000 ký tự. |
+Mọi dòng vừa **1 dòng** ở 1280, 720 và 390 (đo trong test: 10/10 ca). Chữ cái đầu viết hoa. Không dùng "lỗi / sai / máy chủ / 400 / validation / undefined", không lộ mã quy tắc.
+
+**Hai dòng dưới Xuất / Soạn lại / Tạo phiếu**
+| Loại lỗi | Dòng |
+|---|---|
+| Mạng / 5xx / 409 / lỗi dữ liệu không biết ô | Chưa lưu được nên chưa chạy. Bấm biểu tượng thử lại ở đầu giáo án. |
+| Dữ liệu, có ô được đánh dấu | Chưa lưu được nên chưa chạy. Sửa các ô được đánh dấu. |
+
+**Yêu cầu hành vi (Dev):** ô Thời lượng không tự đổi rỗng/0 thành 1 (bỏ `|| 1`): giữ giá trị người dùng nhập, hiện dòng "Nhập số phút từ 1 đến 180." (mockup đã làm vậy; sẽ khép L1).
 
 ### Các trạng thái (nhãn đầu giáo án + biểu tượng + dòng)
 | Trạng thái | Nhãn | Biểu tượng | Dòng dưới ô | Viền ô |
@@ -84,8 +95,8 @@ Lưu ý Dev: hiển thị `ACTIVITY_SLOT_NAMES[index]` (tên chuẩn), không hi
 | Nhãn | Chưa lưu được | Chưa lưu được |
 | Biểu tượng | có | có (y hệt) |
 | Bấm biểu tượng | Đang lưu ≥ 600ms, gửi lại; focus về ô vừa sửa nếu xong, về biểu tượng nếu lại lỗi | Không gửi, không "Đang lưu"; focus tới ô sai đầu tiên (CR-3) |
-| Dòng dưới ô | không | có, mỗi ô sai |
-| Hint dưới Xuất/Soạn lại/Tạo phiếu | câu đã duyệt | câu đã duyệt (hoặc CR-2) |
+| Dòng dưới ô | không | có, mỗi ô sai, câu ngắn (vd. "Cần có ít nhất một ý.") |
+| Dòng dưới Xuất/Soạn lại/Tạo phiếu | "Chưa lưu được nên chưa chạy. Bấm biểu tượng thử lại ở đầu giáo án." | "Chưa lưu được nên chưa chạy. Sửa các ô được đánh dấu." |
 | Gửi PUT | có | không, đến khi mọi ô hợp lệ |
 | Lỗi dữ liệu nhưng không xác định được ô | (không áp dụng) | **Chỉ** nhãn + biểu tượng, không dòng, không viền cam, không `aria-invalid`; bấm biểu tượng chạy luồng đã duyệt (Đang lưu, gửi lại) |
 | Hết khi | lưu được | từng ô hợp lệ, rồi tự lưu |
@@ -100,13 +111,17 @@ Server trả 400/422 (nếu client lọt) nên dùng cùng giao diện: nếu bo
 - Chưa thử với trình đọc màn hình thật (chỉ kiểm tra thuộc tính và hành vi bằng Chrome headless).
 
 ## 5. Thay đổi cần duyệt / xung đột với phần đã duyệt
-- **Không xung đột** với biểu tượng, tooltip, nhãn, ô 24px, focus khi thử lại, hay dòng chặn dưới nút.
-- **CR-1 (mới):** kiểu viền ô không hợp lệ `#D97706` + `aria-invalid`. Code chưa có kiểu này.
-- **CR-2 (tùy chọn):** biến thể dòng dưới Xuất/Soạn lại/Tạo phiếu khi lỗi dữ liệu: "Chưa lưu được nên thao tác này chưa chạy. Thầy cô sửa mục được nhắc rồi bấm biểu tượng thử lại giúp nhé." Mặc định giữ câu đã duyệt, không cần đổi. (Mockup bản cũ còn câu "bấm Thử lại"; mockup này dùng câu thật `SAVE_ACTION_BLOCKED` trên main.)
-- **CR-3 (hành vi):** bấm biểu tượng khi còn ô sai thì không gửi và chuyển focus tới ô sai đầu tiên. Đây là hành vi mới của biểu tượng đã duyệt (kiểu dáng không đổi).
+- **Không xung đột** với biểu tượng, tooltip, nhãn, ô 24px, focus khi thử lại. Kiểu dáng/vị trí dòng chặn dưới nút không đổi.
+- **Đổi copy so với bản BA đã đề xuất/đã duyệt (BA xem lại):**
+  - Dòng lý do M2: bản cũ "Thầy cô sửa mục {mục} rồi thử lại: {lý do}" thành chỉ "{Lý do}". Yêu cầu "copy nguyên văn nhãn" không còn áp dụng; thay bằng dòng liền dưới đúng ô + `aria-describedby`.
+  - Dòng dưới nút khi lỗi mạng: bản cũ (và `SAVE_ACTION_BLOCKED` trên main) "Chưa lưu được nên thao tác này chưa chạy. Thầy cô bấm biểu tượng thử lại ở đầu giáo án giúp nhé." thành "Chưa lưu được nên chưa chạy. Bấm biểu tượng thử lại ở đầu giáo án." Cần sửa `apps/web/src/lib/save-status.ts` và test đang so khớp câu cũ.
+  - Dòng dưới nút khi lỗi dữ liệu: câu mới "Chưa lưu được nên chưa chạy. Sửa các ô được đánh dấu." (thay CR-2).
+  - AC-A (dòng dưới nút khi lỗi mạng) và AC-G (khi lỗi dữ liệu) cập nhật theo hai câu trên; test của mockup so khớp đúng câu.
+- **CR-1:** viền ô không hợp lệ `#D97706` + `aria-invalid` (code chưa có kiểu này).
+- **CR-3:** bấm biểu tượng khi còn ô sai thì không gửi và chuyển focus tới ô sai đầu tiên (kiểu dáng biểu tượng không đổi).
 
 ## 6. Câu hỏi mở (BA / Dev FE)
 1. Nhận biết lỗi dữ liệu ở đâu: client Zod trước khi gửi (hiện tại, cho biết ô nào qua `issue.path`), hay server 400? Cần map `issue.path` sang ô thật (có cả hoạt động con theo chỉ số). Server 400 hiện chỉ trả `issues[0].message`, không có `path`: nếu cần dòng cho trường hợp lọt client, BE phải trả path (ngoài phạm vi PR FE này).
-2. L1: ô thời lượng rỗng hoặc 0 đang tự đổi thành 1 không báo. Giữ nguyên hay để rỗng rồi hiện dòng "nhập số phút từ 1 đến 180"? Mockup giả định ô được phép rỗng/không hợp lệ.
+2. L1: đã chốt (Huy): không tự đổi thành 1; ô giữ giá trị người nhập và hiện "Nhập số phút từ 1 đến 180.". Dev bỏ `|| 1` ở `activity-editor.tsx`; kiểm tra input number rỗng không làm `Number('')` thành 0 rồi lưu.
 3. Danh sách ô có dòng trong PR này: đủ bảng trên, hay chỉ Kiến thức/Học liệu/4000/thời lượng (các ca QA nêu)?
 4. Giáo án cũ có tên hoạt động lớn bị đổi trong bản nháp: có cần tự đưa về tên chuẩn khi tải? (đề xuất: có.)
